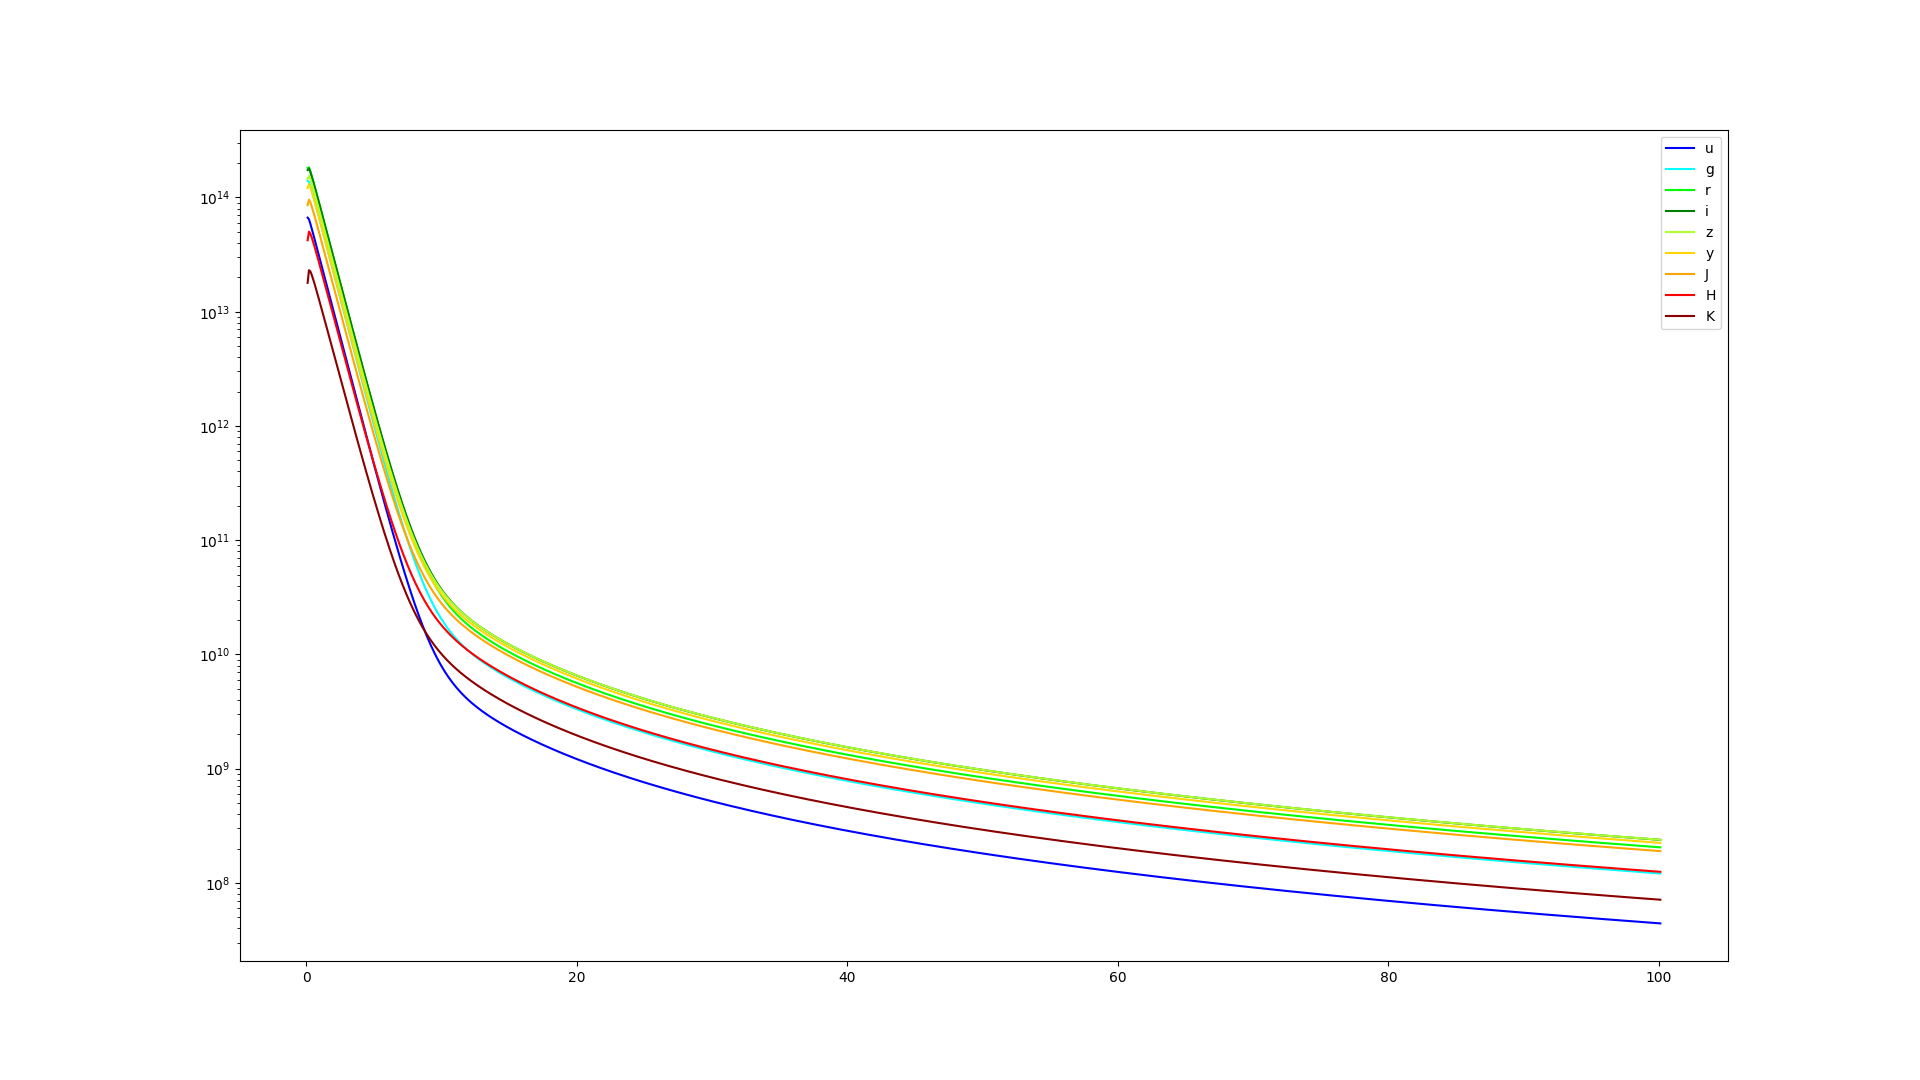
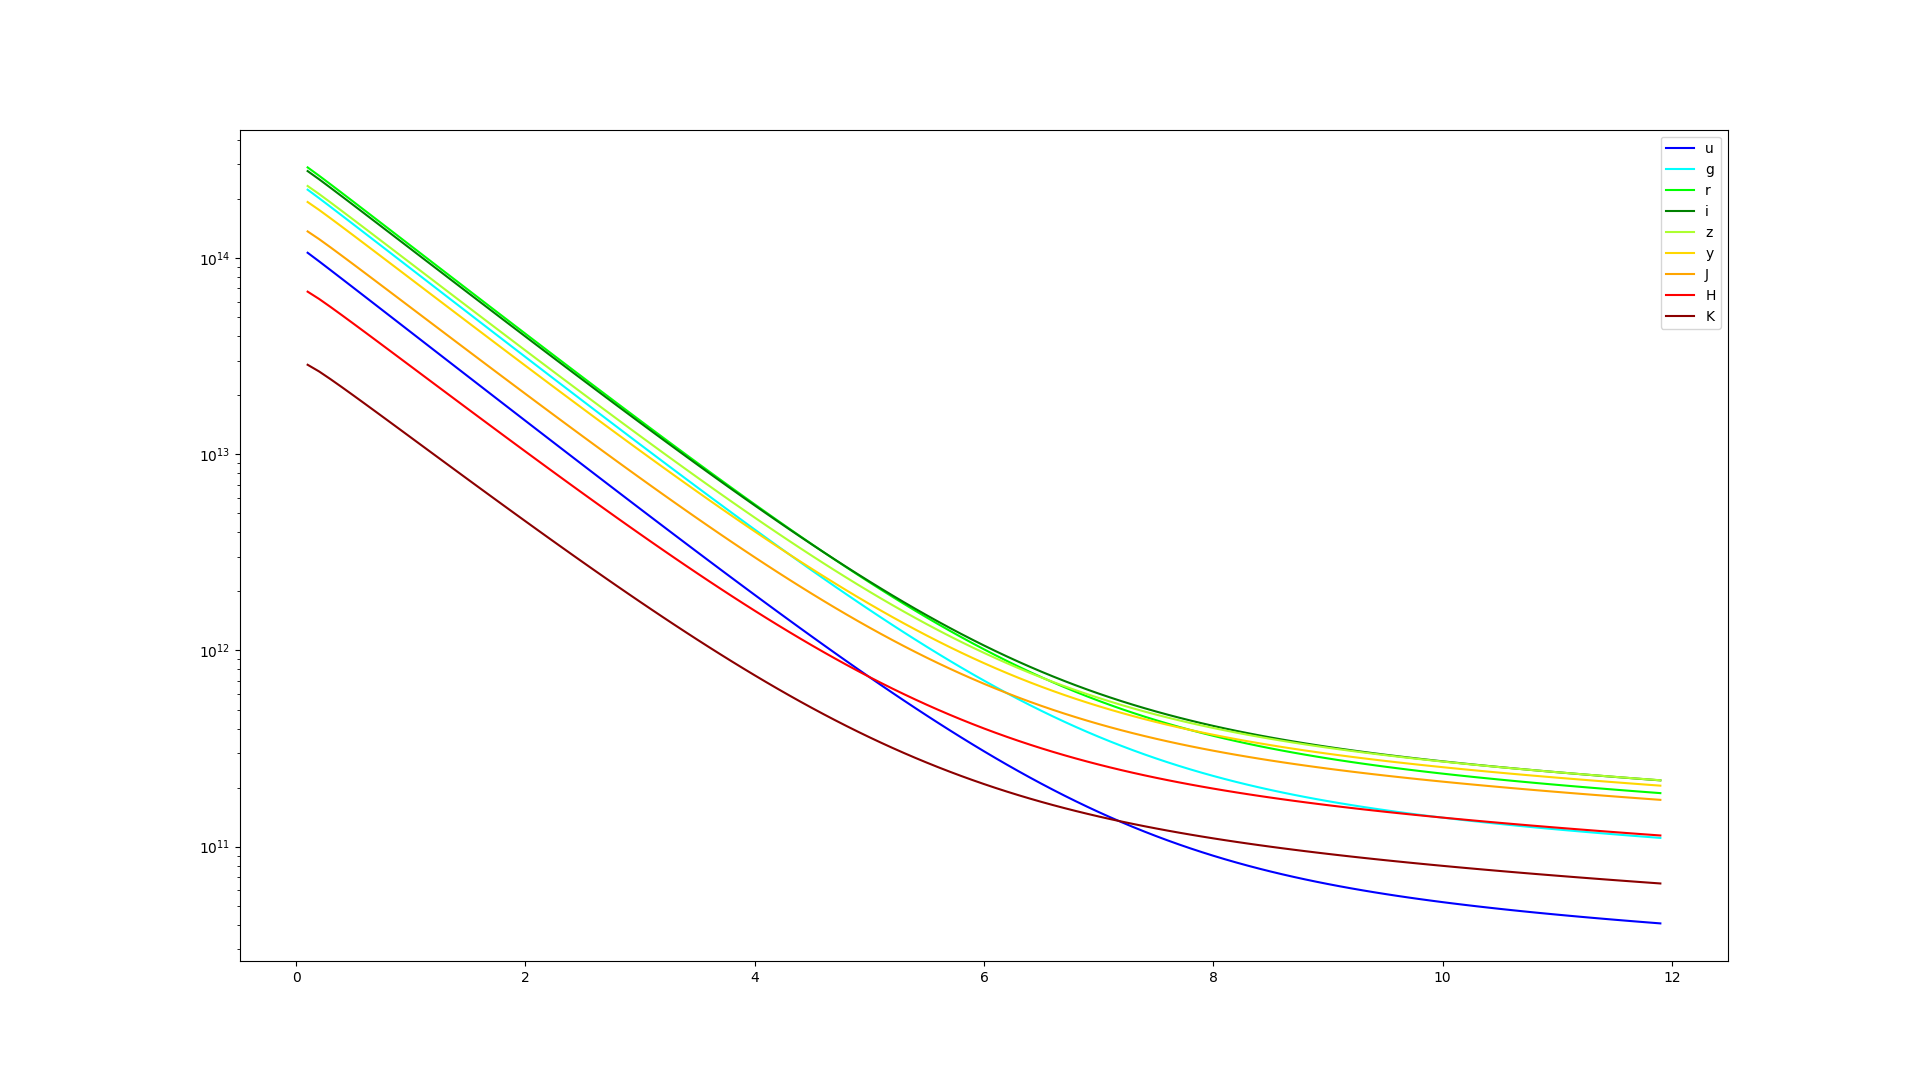
thorough commenting of code

diff --git a/FINAL/rad_transfer.py b/FINAL/rad_transfer.py
@@ -1,82 +1,115 @@
 import numpy as np
 import matplotlib.pyplot as plt
-# finite difference method
-# dI/ds = (I(s + h) - I(s))/h
-# I(s+h) = h*dI/ds + I(s)
-# I1 = 0.1*dI/ds + I0
 
 '''
 Assumptions:
 - blackbody emission
 - photon moving out at steady time steps (not Monte Carlo with wind, just assumed outward trajectory rather than actual random walk)
 - simple alpha/r behavior corresponding to thinning opacity as photon travels further out of the atmosphere
-- 
+- very simple piece-wise quantum efficiency for camera
+- only three viewing filters (u, r, and i)
 '''
 
-def gaussian(x, mu, sigma):
-	return 1./np.sqrt(2*np.pi*sigma**2)*np.exp(-(x - mu)**2/(2*sigma**2))
-
 def planck(wav, T):
+	'''
+	Planck function which accepts a float or array of wavelengths (nm) and temperatures (Kelvin) and evaluates the function at those values
+
+	wav : float or array
+		float or array of wavelength values in nanometers
+
+	T : float or array
+		float or array of temperature values in Kelvin
+	'''
 	h = 6.626e-34 # J s
 	c = 2.998e8 # m / s
 	kb = 1.380e-23 # J / K
 	return np.array([2*h*np.power(c, 2)/np.power(wav, 5)/(np.exp(h*c/(wav*kb*T))-1)]).reshape(-1, len(wav))
 
 def I_next(I_now, alpha, ds, wav, T):
-	# does not make sense to use epsilon (photon destruction probability) because that's used in non-LTE radiative transfer, we are assuming LTE for simplicity :)
+	'''	
+	finite difference method
+	dI/ds = (I(s + h) - I(s))/h  definition of finite difference derivative
+	I(s+h) = h*dI/ds + I(s)      moving things around to isolate the value of the function at the next step
+	I1 = 0.1*dI/ds + I0          first iteration example utilizing the initial condition as a starter
+
+	Note: does not make sense to use photon destruction probability because that's used in non-LTE radiative transfer, we are assuming LTE for simplicity
+
+	I_now : float
+		value of the intensity at the current distance
+
+	alpha : float
+		value of the absorption coefficient, with 0 representing no absorption (vacuum)
+
+	ds : float
+		the step size which decides how rapidly the distance from the source is incremented
+
+	wav : float or array
+		float or array of wavelength values in nanometers
+
+	T : float or array
+		float or array of temperature values in Kelvin
+	'''
 	return ds*(alpha*planck(wav, T) - I_now) + I_now
 
-wavelengths = 'ugrizyJHK'
-colors = {"K":"darkred", "H":"red", "J":"orange", "y":"gold", "z":"greenyellow", "i":"green", "r":"lime", "g":"cyan", "u":"blue"}
-classifications = 'OBAFGKMLTY'
+### Setting up values to be used in the finite difference loop
+
+wavelengths = 'ugrizyJHK' # letter representations of all the filters 
+colors = {"K":"darkred", "H":"red", "J":"orange", "y":"gold", "z":"greenyellow", "i":"green", "r":"lime", "g":"cyan", "u":"blue"} # plotting colors chosen logically with shorter wavelengths being bluer and longer wavelengths being redder
+classifications = 'OBAFGKMLTY' # stellar classifications 
 temps = np.array([40000, 20000, 8750, 6750, 5600, 4450, 3050, 1850, 1000, 600]) # effective temperature at stellar surface for OBAFGKMLTY star
-wav = np.array([365, 476, 621, 754, 900, 1020, 1220, 1630, 2190])*1e-9 # ugrizyJHK
-ds = 0.1
-rel_diff = 1e-2
+wav = np.array([365, 476, 621, 754, 900, 1020, 1220, 1630, 2190])*1e-9 # ugrizyJHK filter wavelengths
+ds = 0.1 # step size
+rel_diff = 1e-2 # relative difference requirement between subsquent steps; if the value of (s_{i} - {s_i+1})/s_{i} is less than this, the evaluation is terminated
 u = np.loadtxt('filters/bess-u.pass', unpack=True).T # taken from Michael Richmond's ASTP-613 notes on optical detectors (week 7B)
 r = np.loadtxt('filters/bess-r.pass', unpack=True).T
 i = np.loadtxt('filters/bess-i.pass', unpack=True).T
-filters = np.array([u, r, i])
-verbose = True
+filters = np.array([u, r, i]) # the three filter considered for the camera portion
+verbose = True # whether or not to print early termination warning
 filter_to_wav = {0: 0, 1: 2, 2:3} # first filter is u, translate to first wavelength in wav, second filter is r, translate to third wavelength in wav, etc...
-qe1, qe2 = np.random.uniform(0.5, 1), np.random.uniform(0, 0.5)
+qe1, qe2 = np.random.uniform(0.5, 1), np.random.uniform(0, 0.5) # quantum efficiences, with the first one (shorter wavelengths) arbitrarily chosen to be higher and the second one (longer wavelengths) arbitrarily chosen to be lower
 
-for T in temps:
+### Looping over the temperature values in the temps array to consider all the stellar classes specified in classifications
 
-	intensity = planck(wav, T)*np.random.uniform(10, 100)
-	dist = np.array([ds])
+for T in temps: # looping over temperatures
+
+	intensity = planck(wav, T)*np.random.uniform(10, 100) # the initial value of the intensity I_0 is somewhere between 10 to 100 times the Planck function
+	dist = np.array([ds]) # initialize distances array
 	
-	for idx in range(10000000):
-		alpha = 1/dist[-1]
+	for idx in range(10000000): # assume many iterations since the rel_diff will likely stop before we hit max iterations
+		alpha = 1/dist[-1] # take the absorption to drop off as 1/r which roughly corresponds to how the density would change as a function of distance
 		alpha_coeffs = wav/np.sum(wav)/(wav[-1]/np.sum(wav)) # make alpha dependent on wavelength, bluer wavelengths should have larger scattering/opacity than redder
 		alpha *= alpha_coeffs # scale alpha values accordingly
-		intensity = np.append(intensity, I_next(intensity[-1], alpha, ds, wav, T), axis=0)
-		dist = np.append(dist, (idx+2)*ds)
-		if idx > 0:
-			diff = (intensity[-2, :]-intensity[-1, :])/intensity[-2, :]
-			if np.average(diff) <= rel_diff:
+		intensity = np.append(intensity, I_next(intensity[-1], alpha, ds, wav, T), axis=0) # append intensity value at next step to intensity array
+		dist = np.append(dist, (idx+2)*ds) # append next step to distance array
+		if idx > 0: # comparison cannot be made at first time step, need at least 2 values to compare relative difference
+			diff = (intensity[-2, :]-intensity[-1, :])/intensity[-2, :] # (s_{i} - {s_i+1})/s_{i} for each of the wavelengths in the wav array
+			if np.average(diff) <= rel_diff: # if the average relative difference is below the threshold, terminate
 				if verbose: print('relative difference below threshold of %e, terminating early at %d steps' % (rel_diff, idx))
 				break
 
+### Plotting intensity as a function of distance for all wavelengths considered in the wav array
+
 	plt.figure(figsize=(19.2, 10.8))
 	for idx in range(intensity.shape[1]):
-		plt.plot(dist, intensity[:, idx], colors[wavelengths[idx]], label=wavelengths[idx])
+		plt.plot(dist, intensity[:, idx], colors[wavelengths[idx]], label=wavelengths[idx]) # plot the intensity as a function of distance for each of the wavelengths in the wav array
 	plt.legend()
-	plt.yscale('log')
+	plt.yscale('log') # log-scale y-axis represents the change in intensity in a more meaningful way
 	plt.savefig('figures/%s.png' % classifications[int(np.where(temps==T)[0])])
 	plt.close()
 
-	for idx in range(filters.shape[0]):
+### Examining what the intensity throughput would be when using a camera with some simple piece-wise quantum efficiency (above and below a threshold wavelength) viewed through Johnson u, r, and i filters
+
+	for idx in range(filters.shape[0]): # loop through the u, r, and i filters
 		filt = filters[idx]
-		if T == temps[0]:
-			filt[:, 0] /= 10 # convert from Angstroms to actual nanometers
-			filt[:, 0] *= 1e-9
+		if T == temps[0]: # if the first of the temperatures considered, scale the values in the filter data from Angstroms to nanometers
+			filt[:, 0] /= 10 # convert from Angstroms
+			filt[:, 0] *= 1e-9 # and then to actual nanometers
 		cutoff_wav = 0.6e-6 # above 600 nanometers, your CCD suddenly drops in quantum efficiency for some reason (probably a grad student made a mistake)
-		quantum_efficiency = np.piecewise(filt[:, 0], [filt[:, 0] <= cutoff_wav, filt[:, 0] > cutoff_wav], [qe1, qe2])
-		transmissivity = np.zeros_like(filt[:, 0])
-		transmissivity[np.where(filt[:, 0] < cutoff_wav)[0]] = filt[np.where(filt[:, 0] < cutoff_wav)[0], 1]*quantum_efficiency[0]
+		quantum_efficiency = np.piecewise(filt[:, 0], [filt[:, 0] <= cutoff_wav, filt[:, 0] > cutoff_wav], [qe1, qe2]) # if wav < 600 nm, quantum efficiency is the first value, otherwise it is the second value
+		transmissivity = np.zeros_like(filt[:, 0]) # initialize the transmissivity array
+		transmissivity[np.where(filt[:, 0] < cutoff_wav)[0]] = filt[np.where(filt[:, 0] < cutoff_wav)[0], 1]*quantum_efficiency[0] # transmissivity is the product of the quantum efficiency times the filter's throughput
 		transmissivity[np.where(filt[:, 0] >= cutoff_wav)[0]] = filt[np.where(filt[:, 0] >= cutoff_wav)[0], 1]*quantum_efficiency[-1]
 		plt.yscale('log')
-		plt.plot(filt[:, 0], transmissivity*intensity[-1, filter_to_wav[idx]])
-		plt.show()
+		plt.plot(filt[:, 0], transmissivity*intensity[-1, filter_to_wav[idx]]) # plot the last value of the intensity (where the finite differencing terminated) times the throughput of the camera + filters
+#		plt.show()
 	
